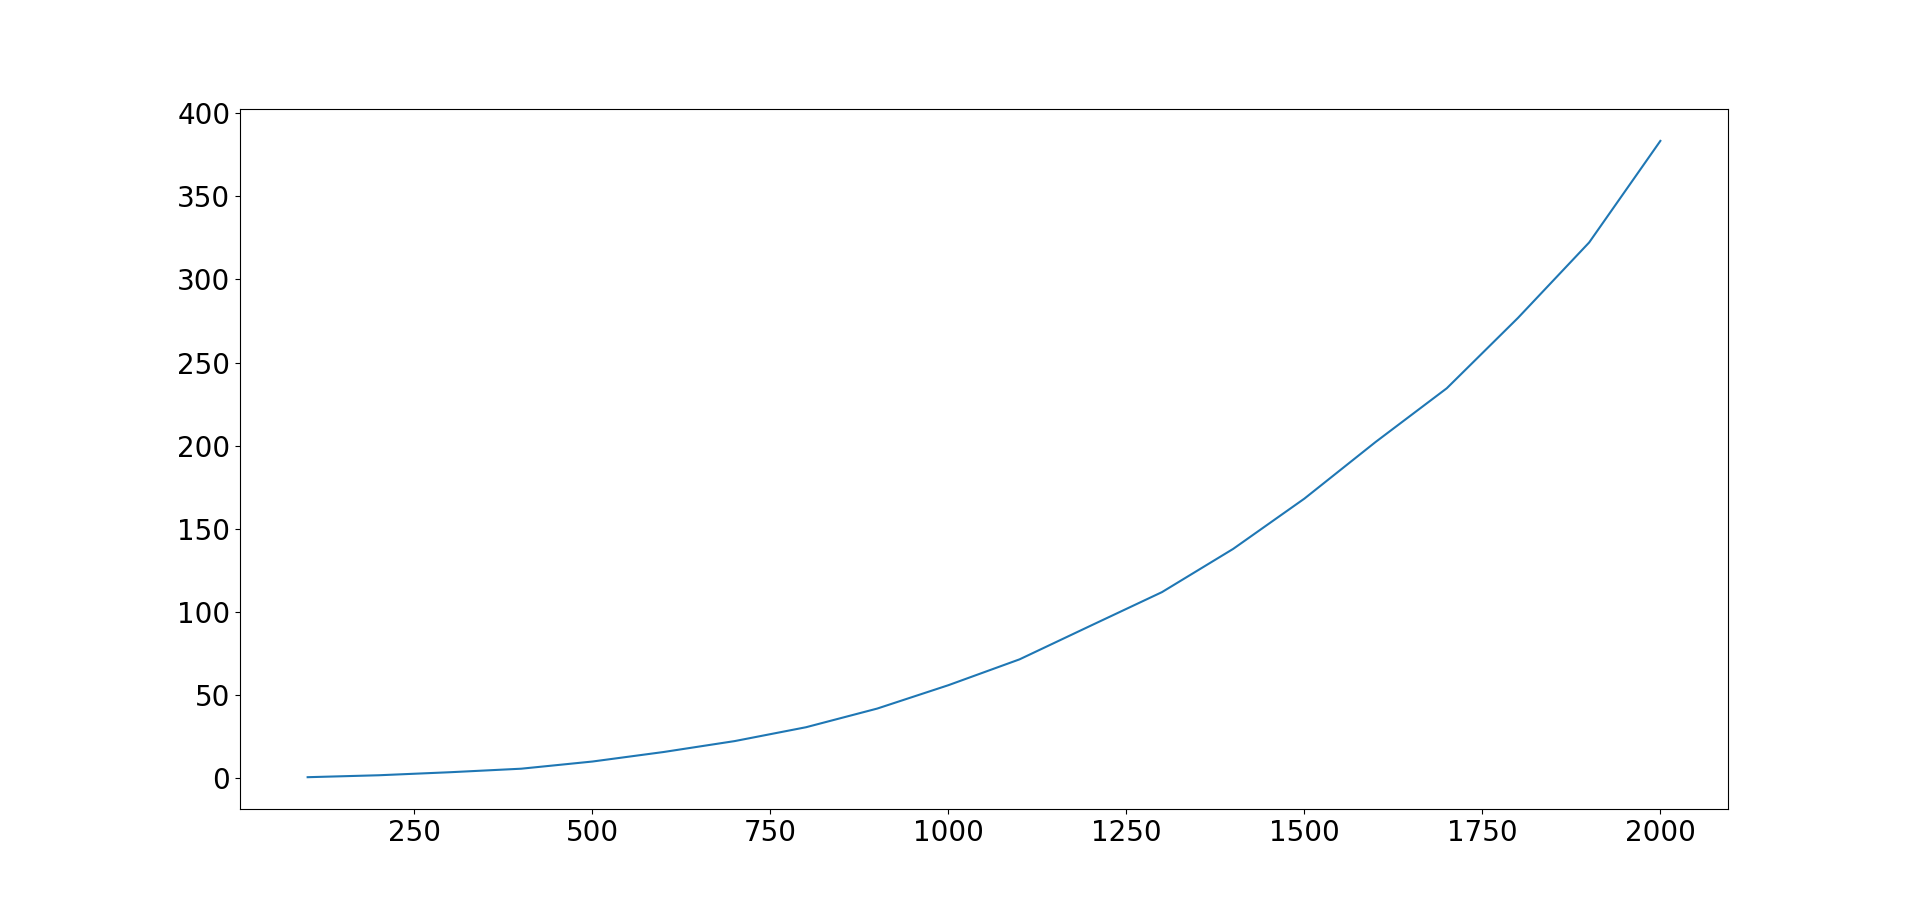
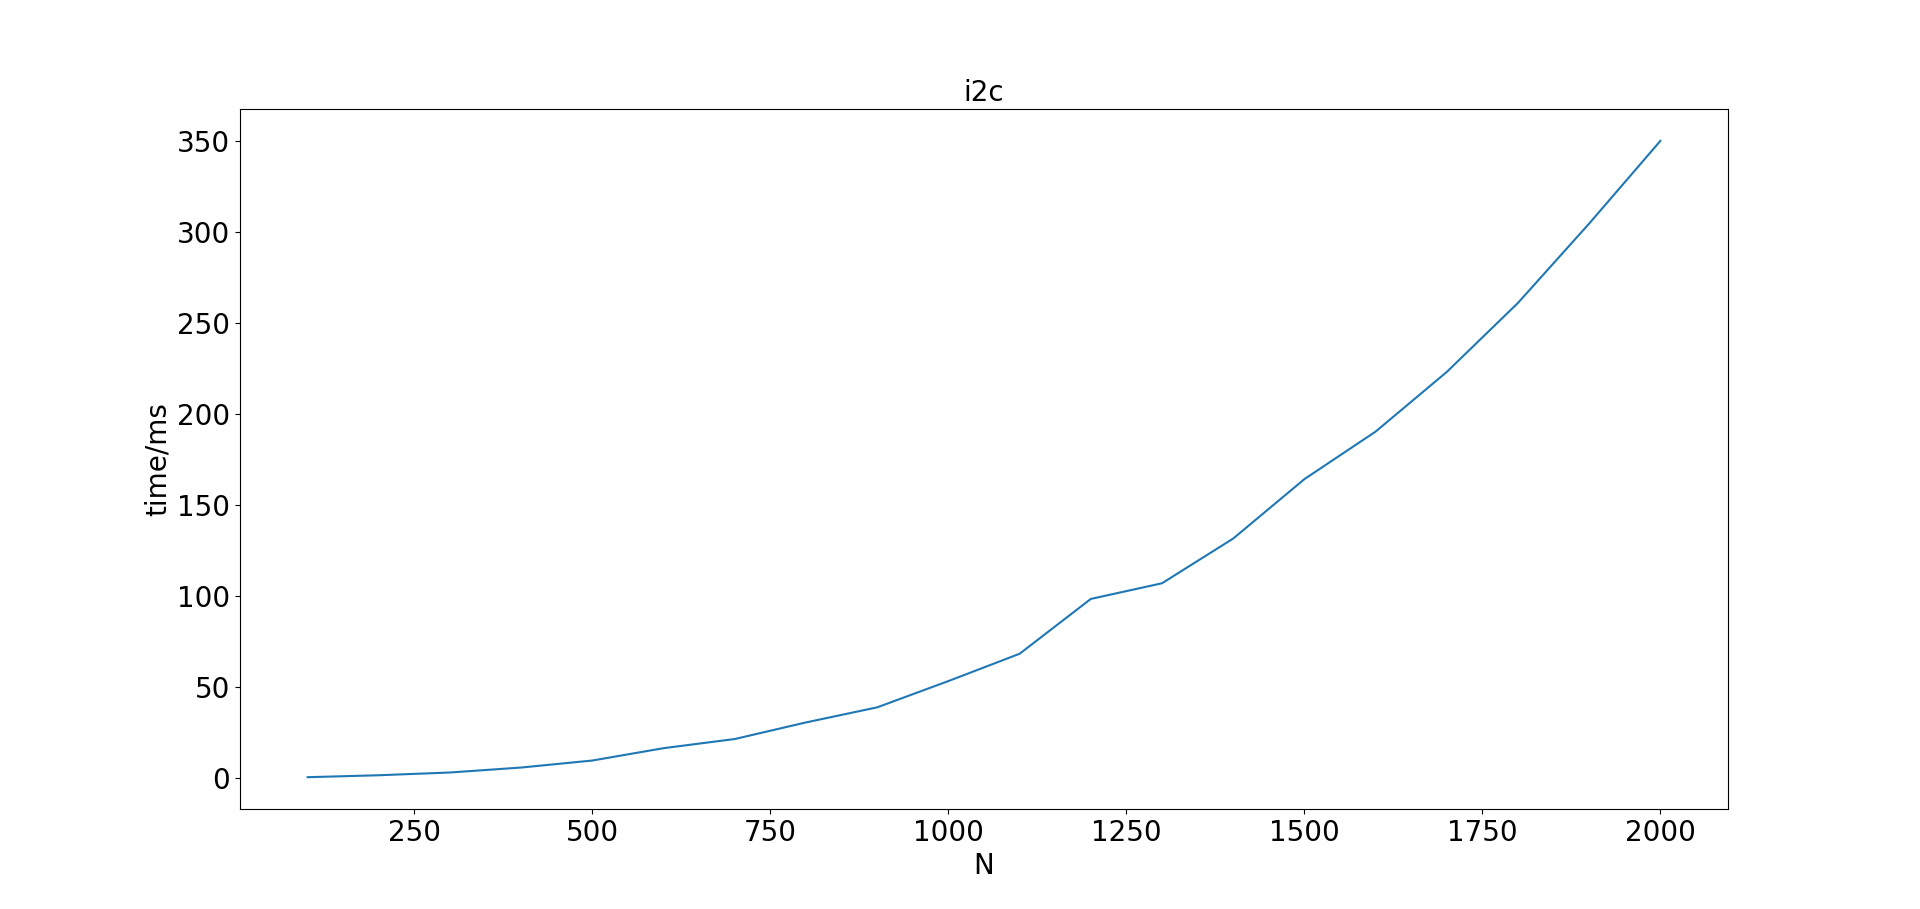
modify

diff --git a/test_time.py b/test_time.py
@@ -26,10 +26,19 @@ with open('result.txt','w') as f:
 
 plt.plot(test_N,time_i2c_list)
 plt.tick_params(labelsize=20)
-plt.savefig('./i2c_N.png')
+plt.title('i2c',fontsize=20)
+plt.xlabel('N',fontsize=20)
+plt.ylabel('time/ms',fontsize=20)
+plt.show()
+# plt.savefig('./i2c_N.png')
+
 plt.plot(test_N,time_c2i_list)
 plt.tick_params(labelsize=20)
-plt.savefig('./c2i_N.png')
+plt.title('c2i',fontsize=20)
+plt.xlabel('N',fontsize=20)
+plt.ylabel('time/ms',fontsize=20)
+plt.show()
+# plt.savefig('./c2i_N.png')
 
 #---------测试R  
 time_i2c_list=list([])
@@ -42,7 +51,6 @@ for r in test_R:
     sum_time_c2i=.0
     for j in range(5):
         index=num_combinations(N,r)//2
-        print(r,index)
         result_i2c,time_i2c=i2c_time(N,r,index)
         result_c2i,time_c2i=c2i_time(N,r,result_i2c)
         sum_time_i2c+=time_i2c
@@ -57,9 +65,16 @@ with open('result_R.txt','w') as f:
         
 plt.plot(test_R,time_i2c_list)
 plt.tick_params(labelsize=20)
+plt.title('i2c',fontsize=20)
+plt.xlabel('R',fontsize=20)
+plt.ylabel('time/ms',fontsize=20)
 plt.show()
-plt.savefig('./i2c_R.png')
+# plt.savefig('./i2c_R.png')
+
 plt.plot(test_R,time_c2i_list)
 plt.tick_params(labelsize=20)
-plt.savefig('./c2i_R.png')
+plt.title('c2i',fontsize=20)
+plt.xlabel('R',fontsize=20)
+plt.ylabel('time/ms',fontsize=20)
 plt.show()
+# plt.savefig('./c2i_R.png')
